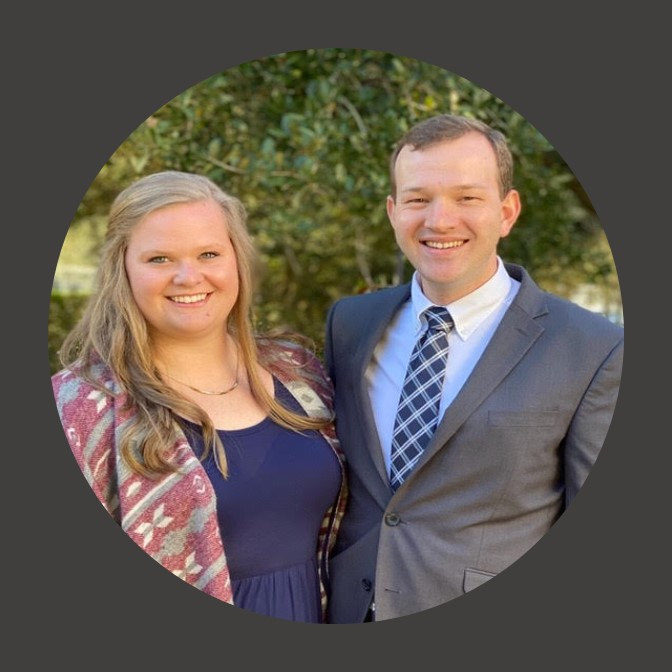
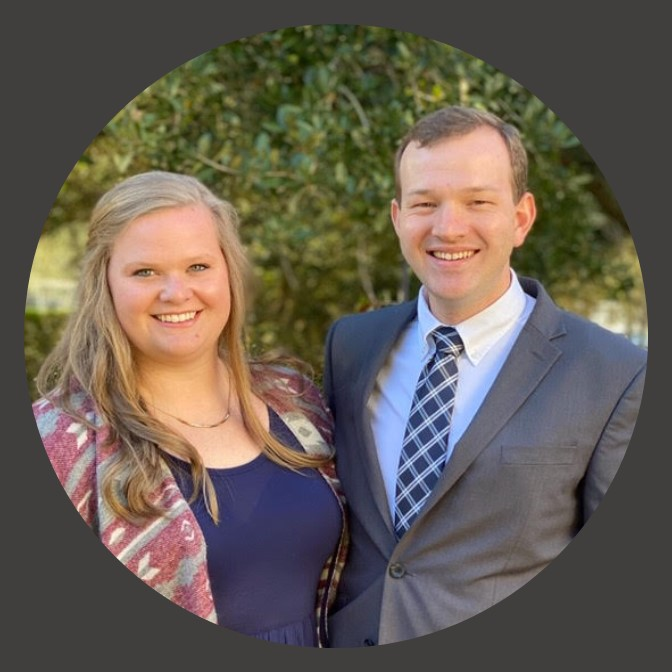
update

diff --git a/index.html b/index.html
@@ -6,7 +6,7 @@
 	</head>
 <!-- Side navigation -->
 	<div class="sidenav">
-		<img src="./nick_shannon.jpg" width=250px height=auto>
+		<img src="./nick_shannon.jpg" width=100% height=auto>
 		<h1>Nicholas Bolick</h1>
 		<h2>Data Analyst</h2>
 		<br>
@@ -15,17 +15,26 @@
 		<a href="#code">Code</a>
 		<a href="#about">About</a>
 	</div>
-<!-- Page content -->
-	<div class="main" id="#intro">
+<!-- Introduction -->
+	<div class="main" id="intro">
 		<h1>Introduction</h1>
 		<p>Hi, I'm Nick.  </p>
 	</div>
+<!-- Dashboards -->
 	<div class="main" id="boards">
 		<h1>Dashboards</h1>
-		<br>
-		<h2>San Francisco Employee Compensation 2013-2020</h2>
-		<img src="./sf_excel_dashboard.jpg">
-		<p>The above dashboard was created in Excel using PivotCharts.</p>
+		<div>
+			<h2>San Francisco Employee Compensation 2013-2020</h2>
+			<img src="./sf_excel_dashboard.jpg">
+			<p>The above dashboard was created in Excel using PivotCharts.</p>
+		</div>
+		<div>
+			<h2>Video Game Sales From 1982 to 2016</h2>
+			<div class="video_wrapper">
+				<iframe title="video_game_sales - Page 1" width=1000px height=800px src="https://app.powerbi.com/view?r=eyJrIjoiZjIwYmYzNTktYmY4Ny00NGIwLWFhYmEtYzQ2NjJjYTUwMDQ0IiwidCI6IjExZmY3YzQ3LTM2MjktNGYzMC1hYTIwLTRmZDFjOWYzMjQzNiIsImMiOjF9" frameborder="0" allowFullScreen="true"></iframe>
+			</div>
+			<p>This dashboard displays a variety of sales metrics related to video game sales between 1982 and 2016.  I chose to use this dataset for my first Power BI dashboard because of its good mix of categorical and numerical data that I felt could easily be generalized to sales from a large range of industries.</p>
+		</div>
 	</div>
 	<div class="main" id="code">
 		<h1>Code</h1>

diff --git a/main.css b/main.css
@@ -1,7 +1,8 @@
 html {
   font-family: Helvetica;
   color: #413F3D;
-  background-color:
+  background-color: #F2F1EF;
+  
 }
 
 body, div {
@@ -9,15 +10,15 @@ body, div {
 }
 
 img {
-  width: 90%;
+  width: 100%;
   height: auto;
-  text-align: left;
+  text-align: center;
 }
 
 /* The sidebar menu */
 .sidenav {
   height: 100%; /* Full-height: remove this if you want "auto" height */
-  width: 250px; /* Set the width of the sidebar */
+  width: 275px; /* Set the width of the sidebar */
   position: fixed; /* Fixed Sidebar (stay in place on scroll) */
   z-index: 1; /* Stay on top */
   top: 0; /* Stay at the top */
@@ -40,14 +41,30 @@ img {
 
 /* Style page content */
 .main {
-  margin-left: 250px; /* Same as the width of the sidebar */
-  margin-right: 250px
+  margin-left: 275px; /* Same as the width of the sidebar */
+  margin-right: 275px
   padding: 0px 10px;
   background-color: #F2F1EF;
+  text-indent: 1%;
 }
 
+.main h1 {
+  text-decoration: underline;
+}
 /* On smaller screens, where height is less than 450px, change the style of the sidebar (less padding and a smaller font size) */
 @media screen and (max-height: 450px) {
   .sidenav {padding-top: 15px;}
   .sidenav a {font-size: 18px;}
+}
+
+.video_wrapper {
+position: relative;
+padding-bottom: 56.25%; /* 16:9, for an aspect ratio of 1:1 change to this value to 100% */ 
+}
+iframe{
+position: absolute;
+top: 0;
+left: 0;
+width: 100%;
+height: 100%;
 }
